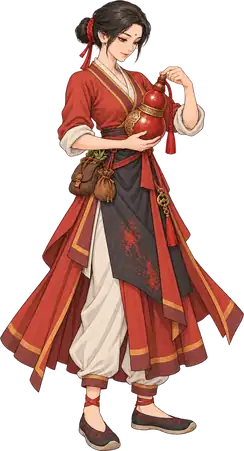
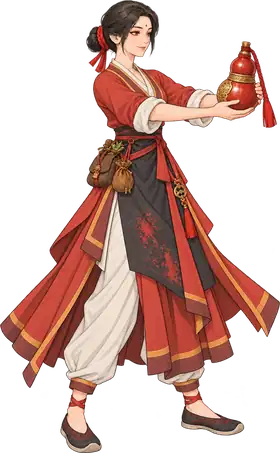
Cập nhật Hồng Đan: thêm tranh ra chiêu, tranh tuyệt chiêu mới và ảnh phong thái
Tranh ôm hồ lô mở nút chuyển sang ra chiêu; tranh hai tay nâng hồ lô trao thuốc
gửi bổ sung làm tuyệt chiêu; tranh cúi tháo dây hồ lô làm ảnh phong thái. Hồng
Đan giờ đủ năm ảnh đối chiếu nên bỏ khỏi danh sách được thiếu tranh ra chiêu.

Claude-Session: https://claude.ai/code/session_01Q7BXEqFLZkyhsqgEgPGfqj

diff --git a/src/app/game/stage/rigs.ts b/src/app/game/stage/rigs.ts
@@ -1978,9 +1978,9 @@ const TRUONG_VIEM: WarriorRig = {
 };
 
 /**
- * Hồng Đan, y sư hệ Hỏa (tướng cửa hàng). Bộ tranh Shan gửi 26/10 (nền trong suốt sẵn; tranh ra chiêu gửi trùng tranh
- * tuyệt chiêu nên ra chiêu dùng nhịp lắc hồ lô của rig). Ảnh đứng tách lớp bằng code như Mai Thanh: bàn tay xách hồ lô
- * xoay quanh cổ tay, hồ lô lắc quanh nắm tay; bàn tay buông và đầu tách riêng. Hệ tọa độ: ảnh đứng 1024×1536.
+ * Hồng Đan, y sư hệ Hỏa (tướng cửa hàng). Bộ tranh Shan gửi 26/10 (nền trong suốt sẵn), tranh tuyệt chiêu gửi bổ sung
+ * sau. Ảnh đứng tách lớp bằng code như Mai Thanh: bàn tay xách hồ lô xoay quanh cổ tay, hồ lô lắc quanh nắm tay; bàn tay
+ * buông và đầu tách riêng. Hệ tọa độ: ảnh đứng 1024×1536.
  */
 const HONG_DAN: WarriorRig = {
   skeleton: "warrior",
@@ -2007,12 +2007,15 @@ const HONG_DAN: WarriorRig = {
   blade: [{ x: 290, y: 690 }, { x: 270, y: 850 }],
   strikeFx: "emberMend",
   fxColor: 0xd9502a,
-  // Phẩy tay rắc thuốc, hồ lô xách thấp (đánh thường), ôm hồ lô mở nút trao thuốc cho cả đội (tuyệt chiêu).
+  // Phẩy tay rắc thuốc, hồ lô xách thấp (đánh thường), ôm hồ lô mở nút (ra chiêu), hai tay nâng hồ lô trao thuốc cho cả
+  // đội (tuyệt chiêu).
   poses: {
     attack: { name: "pose-attack", texScale: 0.3, origin: { x: 145, y: 12 },
       anchor: { x: 590, y: 1510 }, scale: 1, burst: { x: 430, y: 300 } },
-    ultimate: { name: "pose-ultimate", texScale: 0.3, origin: { x: 137, y: 15 },
+    cast: { name: "pose-cast", texScale: 0.3, origin: { x: 137, y: 15 },
       anchor: { x: 585, y: 1515 }, scale: 1, burst: { x: 680, y: 600 } },
+    ultimate: { name: "pose-ultimate", texScale: 0.3, origin: { x: 43, y: 11 },
+      anchor: { x: 535, y: 1510 }, scale: 1, burst: { x: 850, y: 350 } },
   },
   down: { name: "pose-down", texScale: 0.3, origin: { x: 39, y: 38 },
     anchor: { x: 800, y: 900 }, scale: 0.85 },

diff --git a/tests/game/character-preview.test.ts b/tests/game/character-preview.test.ts
@@ -19,7 +19,7 @@ test("bảng xem thử chỉ có nhân vật có rig, dung lượng khớp các 
   }
   for (const id of ["nguyenBac", "dinhDien", "luuCo", "trinhTu", "dinhLien", "tranLam", "phamBachHo", "ngoXuongXi", "tranCuong", "kieuCongHan", "nguyenKhoan", "kieuThuan", "lyKhue", "nguyenThuTiep", "luDuong", "nguyenSieu", "doCanhThac", "chuNgan", "caoKien", "chauNgoc", "toKim", "nghiemThiet", "lamTung", "hoangMoc", "lucDiep", "nhanTruc", "samTue", "hoLang", "daoLam", "thaiHa", "damThao", "maiThanh", "quachAn", "viTrieu", "haVan", "lyLiet", "truongViem", "hongDan"]) {
     const character = characters.find((c) => c.id === id)!;
-    assert.ok(character.assets.every((a) => a.file || a.kind === "attack" || (a.kind === "cast" && (id === "nguyenKhoan" || id === "nguyenSieu" || id === "nghiemThiet" || id === "hongDan")) || a.kind === "style"), `${id} cần đủ năm ảnh đối chiếu`);
+    assert.ok(character.assets.every((a) => a.file || a.kind === "attack" || (a.kind === "cast" && (id === "nguyenKhoan" || id === "nguyenSieu" || id === "nghiemThiet")) || a.kind === "style"), `${id} cần đủ năm ảnh đối chiếu`);
     assert.ok(character.files.reduce((sum, file) => sum + file.bytes, 0) <= 350_000);
     const portrait = character.assets.find((a) => a.kind === "portrait")!.file!;
     assert.ok(portrait.bytes < 30_000);

diff --git a/tests/game/rigs.test.ts b/tests/game/rigs.test.ts
@@ -824,13 +824,12 @@ test("Trương Viêm có bốn tranh, tường lửa hệ Hỏa, khiên nâng đ
   assert.ok(bytes <= 350_000, `${bytes} bytes vượt ngân sách`);
 });
 
-test("Hồng Đan có ba tranh, đan hỏa hệ Hỏa, hồ lô lắc quanh nắm tay và texture khớp tọa độ", () => {
+test("Hồng Đan có bốn tranh, đan hỏa hệ Hỏa, hồ lô lắc quanh nắm tay và texture khớp tọa độ", () => {
   const rig = rigOf("hongDan");
   assert.ok(rig?.skeleton === "warrior");
   assert.equal(rig.weapon, "gourd");
   assert.equal(rig.strikeFx, "emberMend");
-  for (const kind of ["attack", "ultimate"] as const) assert.equal(rig.poses?.[kind]?.name, `pose-${kind}`);
-  assert.equal(rig.poses?.cast, undefined);
+  for (const kind of ["attack", "cast", "ultimate"] as const) assert.equal(rig.poses?.[kind]?.name, `pose-${kind}`);
   assert.equal(rig.down?.name, "pose-down");
   const contains = (p: { x: number; y: number }, box: { x: number; y: number; w: number; h: number }) =>
     assert.ok(p.x > box.x && p.x < box.x + box.w && p.y > box.y && p.y < box.y + box.h, `${JSON.stringify(p)} ngoài lớp`);
